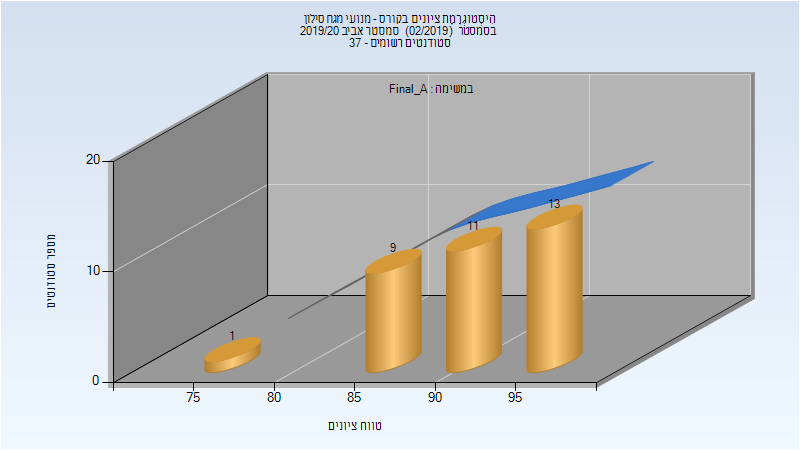
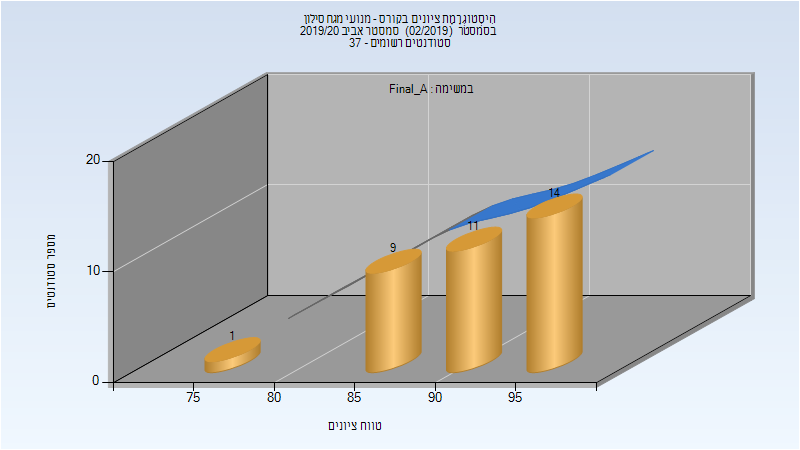
Deploy michael-maltsev/technion-histograms to github.com/michael-maltsev/technion-histograms.git:gh-pages

Changed region(s): [[0.6562, 0.3422, 0.8125, 0.5289]]

diff --git a/086755/index.html b/086755/index.html
@@ -191,5 +191,31 @@
 </tr>
 </tbody>
 </table>
+<h3>סופי</h3>
+<p><img src="201902/Finals.png" alt="201902 Finals" /></p>
+<table>
+<thead>
+<tr>
+<th>סטודנטים</th>
+<th>עברו/נכשלו</th>
+<th>אחוז עוברים</th>
+<th>ציון מינימלי</th>
+<th>ציון מקסימלי</th>
+<th>ממוצע</th>
+<th>חציון</th>
+</tr>
+</thead>
+<tbody>
+<tr>
+<td>58</td>
+<td>46/12</td>
+<td>79</td>
+<td>45</td>
+<td>100</td>
+<td>70.379</td>
+<td>71.5</td>
+</tr>
+</tbody>
+</table>
   </body>
 </html>

diff --git a/086414/index.html b/086414/index.html
@@ -54,13 +54,13 @@
 </thead>
 <tbody>
 <tr>
-<td>34</td>
-<td>34/0</td>
+<td>35</td>
+<td>35/0</td>
 <td>100</td>
 <td>78</td>
 <td>99</td>
-<td>91.824</td>
-<td>92.5</td>
+<td>91.914</td>
+<td>92</td>
 </tr>
 </tbody>
 </table>
@@ -80,12 +80,12 @@
 </thead>
 <tbody>
 <tr>
-<td>34</td>
-<td>34/0</td>
+<td>35</td>
+<td>35/0</td>
 <td>100</td>
 <td>77</td>
 <td>99</td>
-<td>92.088</td>
+<td>92.2</td>
 <td>93</td>
 </tr>
 </tbody>

diff --git a/084220/index.html b/084220/index.html
@@ -535,13 +535,13 @@
 </thead>
 <tbody>
 <tr>
-<td>65</td>
-<td>62/3</td>
-<td>95</td>
-<td>40</td>
+<td>58</td>
+<td>46/12</td>
+<td>79</td>
+<td>45</td>
 <td>100</td>
-<td>80.323</td>
-<td>83</td>
+<td>70.379</td>
+<td>71.5</td>
 </tr>
 </tbody>
 </table>

diff --git a/086414/README.md b/086414/README.md
@@ -13,7 +13,7 @@
 
 | סטודנטים | עברו/נכשלו | אחוז עוברים | ציון מינימלי | ציון מקסימלי | ממוצע | חציון |
 | ---- | ---- | ---- | ---- | ---- | ---- | ---- |
-| 34 | 34/0 | 100 | 78 | 99 | 91.824 | 92.5 |
+| 35 | 35/0 | 100 | 78 | 99 | 91.914 | 92 |
 
 ### סופי מועד א'
 
@@ -21,5 +21,5 @@
 
 | סטודנטים | עברו/נכשלו | אחוז עוברים | ציון מינימלי | ציון מקסימלי | ממוצע | חציון |
 | ---- | ---- | ---- | ---- | ---- | ---- | ---- |
-| 34 | 34/0 | 100 | 77 | 99 | 92.088 | 93 |
+| 35 | 35/0 | 100 | 77 | 99 | 92.2 | 93 |
 

diff --git a/086755/README.md b/086755/README.md
@@ -55,3 +55,11 @@
 | ---- | ---- | ---- | ---- | ---- | ---- | ---- |
 | 58 | 46/12 | 79 | 45 | 100 | 70.379 | 71.5 |
 
+### סופי
+
+![201902 Finals](201902/Finals.png)
+
+| סטודנטים | עברו/נכשלו | אחוז עוברים | ציון מינימלי | ציון מקסימלי | ממוצע | חציון |
+| ---- | ---- | ---- | ---- | ---- | ---- | ---- |
+| 58 | 46/12 | 79 | 45 | 100 | 70.379 | 71.5 |
+

diff --git a/084220/README.md b/084220/README.md
@@ -165,5 +165,5 @@
 
 | סטודנטים | עברו/נכשלו | אחוז עוברים | ציון מינימלי | ציון מקסימלי | ממוצע | חציון |
 | ---- | ---- | ---- | ---- | ---- | ---- | ---- |
-| 65 | 62/3 | 95 | 40 | 100 | 80.323 | 83 |
+| 58 | 46/12 | 79 | 45 | 100 | 70.379 | 71.5 |
 
